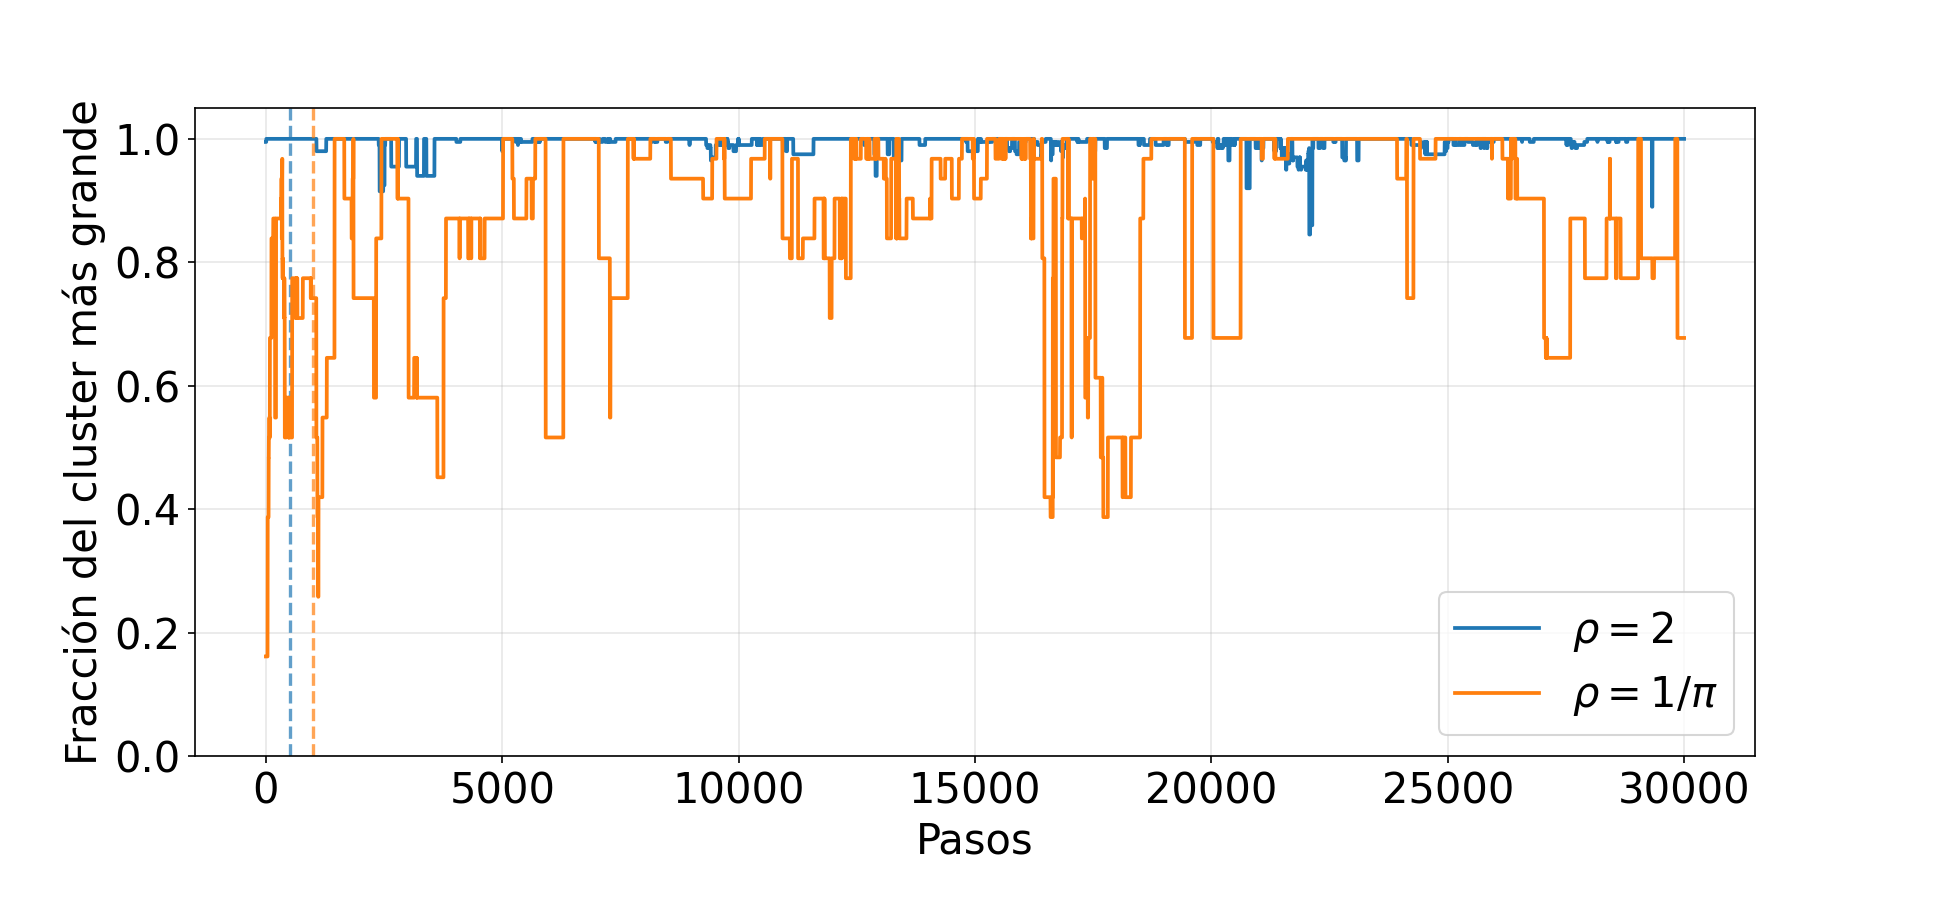
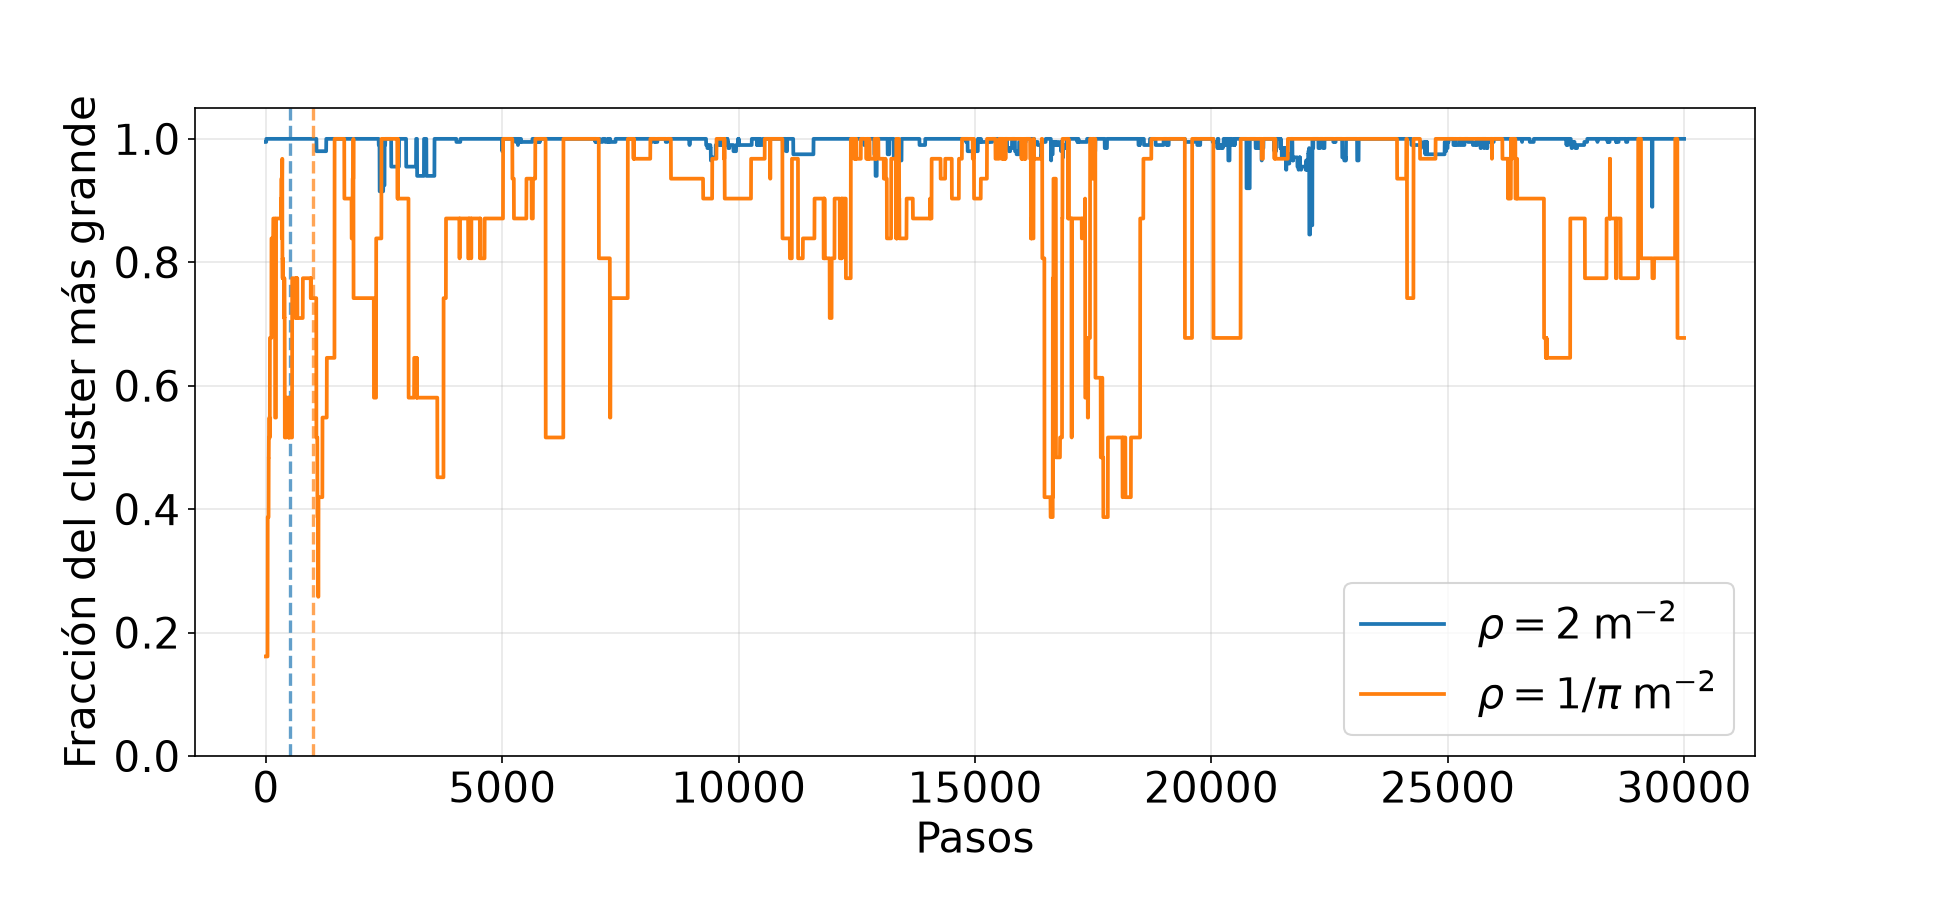
Added density units

diff --git a/python/plot/new/config_util.py b/python/plot/new/config_util.py
@@ -34,10 +34,10 @@ FRACCIONES_DENSIDAD = [
 EPS_DENSIDAD = 1e-6
 
 
-def etiqueta_densidad(densidad):
+def etiqueta_densidad(densidad, unidad=""):
     """Convierte una densidad (string o numero) a su etiqueta de leyenda.
     Las fracciones de pi se muestran como 1/pi, 1/(2pi), etc.; el resto se
-    muestra tal cual (2, 4, 8, ...)."""
+    muestra tal cual (2, 4, 8, ...). Si se provee unidad, se anexa al final."""
     try:
         valor = float(densidad)
     except (TypeError, ValueError):
@@ -46,8 +46,13 @@ def etiqueta_densidad(densidad):
     valor = round(valor, 3)
     for frac, etiqueta in FRACCIONES_DENSIDAD:
         if abs(valor - frac) < EPS_DENSIDAD:
-            return etiqueta
-    return str(int(valor)) if float(valor).is_integer() else str(valor)
+            base = etiqueta
+            break
+    else:
+        base = str(int(valor)) if float(valor).is_integer() else str(valor)
+    if unidad:
+        return base + r" \; \mathrm{" + unidad + "}"
+    return base
 
 
 def modelo_de_directorio(directorio):

diff --git a/python/plot/new/polarizacion_vs_eta.py b/python/plot/new/polarizacion_vs_eta.py
@@ -68,12 +68,16 @@ def graficar(directorios, modelo, archivo_salida=None):
         ax.errorbar(
             resumen["eta"], resumen["va_media"], yerr=[lo_err, hi_err],
             fmt="o-", capsize=3, linewidth=1.2, markersize=5, color=color,
-            label=f"$\\rho={etiqueta_densidad(densidad_de_directorio(directorio))}$",
+            label=f"$\\rho={etiqueta_densidad(densidad_de_directorio(directorio), unidad=r'm^{-2}')}$",
         )
 
-    if modelo == "standard":
+    refs = {
+        "standard": (0.5, 1.5, 2.5, 3.5, 4.5),
+        "voter": (0.1, 0.3, 0.5, 0.7, 0.9),
+    }.get(modelo)
+    if refs:
         trans = ax.get_xaxis_transform()
-        for eta_ref in (0.5, 1.5, 2.5, 3.5, 4.5):
+        for eta_ref in refs:
             ax.axvline(eta_ref, color="gray", linestyle=":", linewidth=1, alpha=0.6)
             ax.text(eta_ref, -0.03, str(eta_ref), transform=trans, ha="center", va="top",
                     fontsize=FUENTE - 8, color="gray")

diff --git a/python/plot/new/polarizacion_vs_S.py b/python/plot/new/polarizacion_vs_S.py
@@ -62,7 +62,7 @@ def graficar(directorios, modelo, etas, archivo_salida=None):
         x_lo, x_hi = clamp_err(xs, xs_err)
         # Curva + marcadores sin transparencia; barras de error (x) casi transparentes.
         ax.plot(xs, ys, "o-", color=color, linewidth=1.2, markersize=5,
-                label=f"$\\rho={etiqueta_densidad(densidad_de_directorio(directorio))}$")
+                label=f"$\\rho={etiqueta_densidad(densidad_de_directorio(directorio), unidad=r'm^{-2}')}$")
         ax.errorbar(
             xs, ys, xerr=[x_lo, x_hi],
             fmt="none", capsize=3, linewidth=1, elinewidth=1, color=color,

diff --git a/python/plot/new/clusters_vs_tiempo.py b/python/plot/new/clusters_vs_tiempo.py
@@ -39,7 +39,7 @@ def graficar(directorios, modelo, eta, archivo_salida=None):
 
         t_inicio = t_inicio_para(modelo, densidad, eta, tinicios)
         ax.plot(t, S, color=color, linewidth=1.8,
-                label=f"$\\rho={etiqueta_densidad(densidad)}$")
+                label=f"$\\rho={etiqueta_densidad(densidad, unidad=r'm^{-2}')}$")
         ax.axvline(t_inicio, color=color, linestyle="--", linewidth=1.6, alpha=0.7)
 
     ax.set_xlabel("Pasos", fontsize=FUENTE)

diff --git a/python/plot/new/clusters_vs_eta.py b/python/plot/new/clusters_vs_eta.py
@@ -68,7 +68,7 @@ def graficar(directorios, modelo, archivo_salida=None):
         ax.errorbar(
             resumen["eta"], resumen["S_media"], yerr=[lo_err, hi_err],
             fmt="o-", capsize=3, linewidth=1.2, markersize=5, color=color,
-            label=f"$\\rho={etiqueta_densidad(densidad_de_directorio(directorio))}$",
+            label=f"$\\rho={etiqueta_densidad(densidad_de_directorio(directorio), unidad=r'm^{-2}')}$",
         )
 
     refs = {
